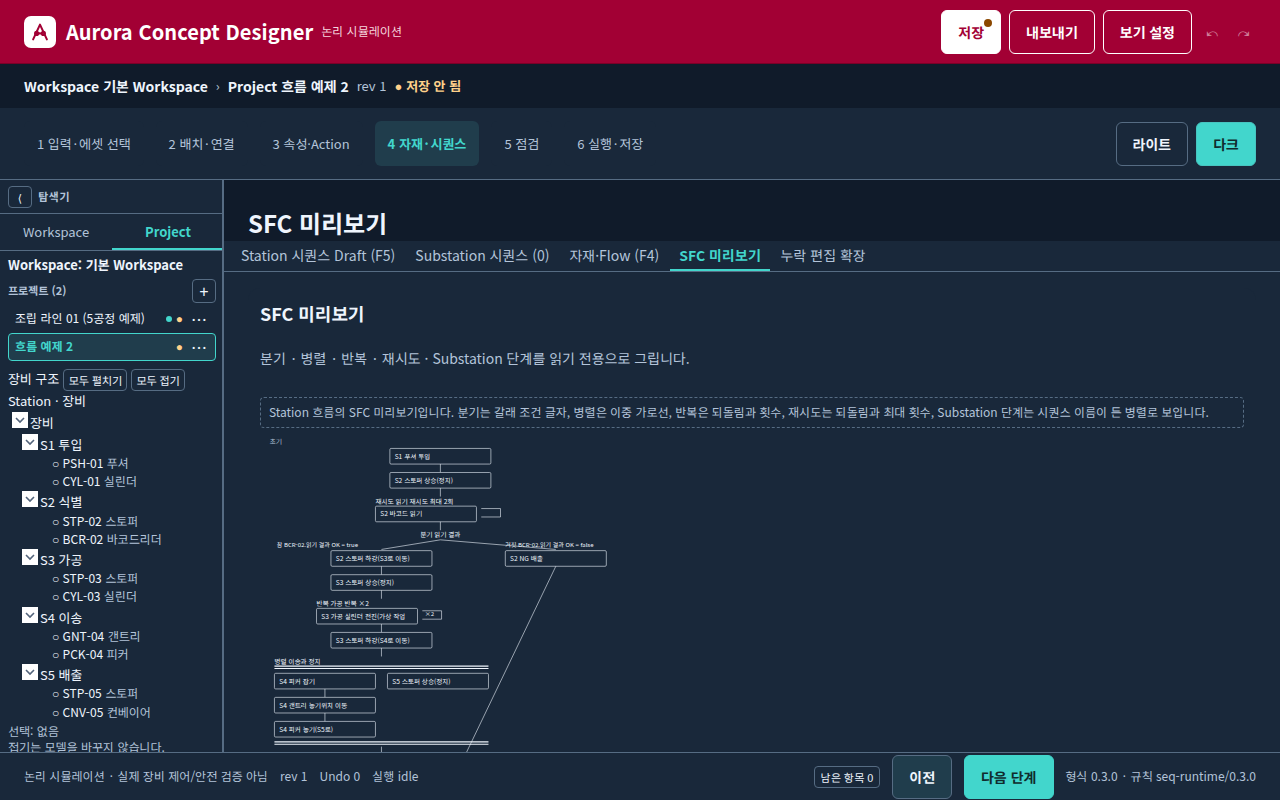
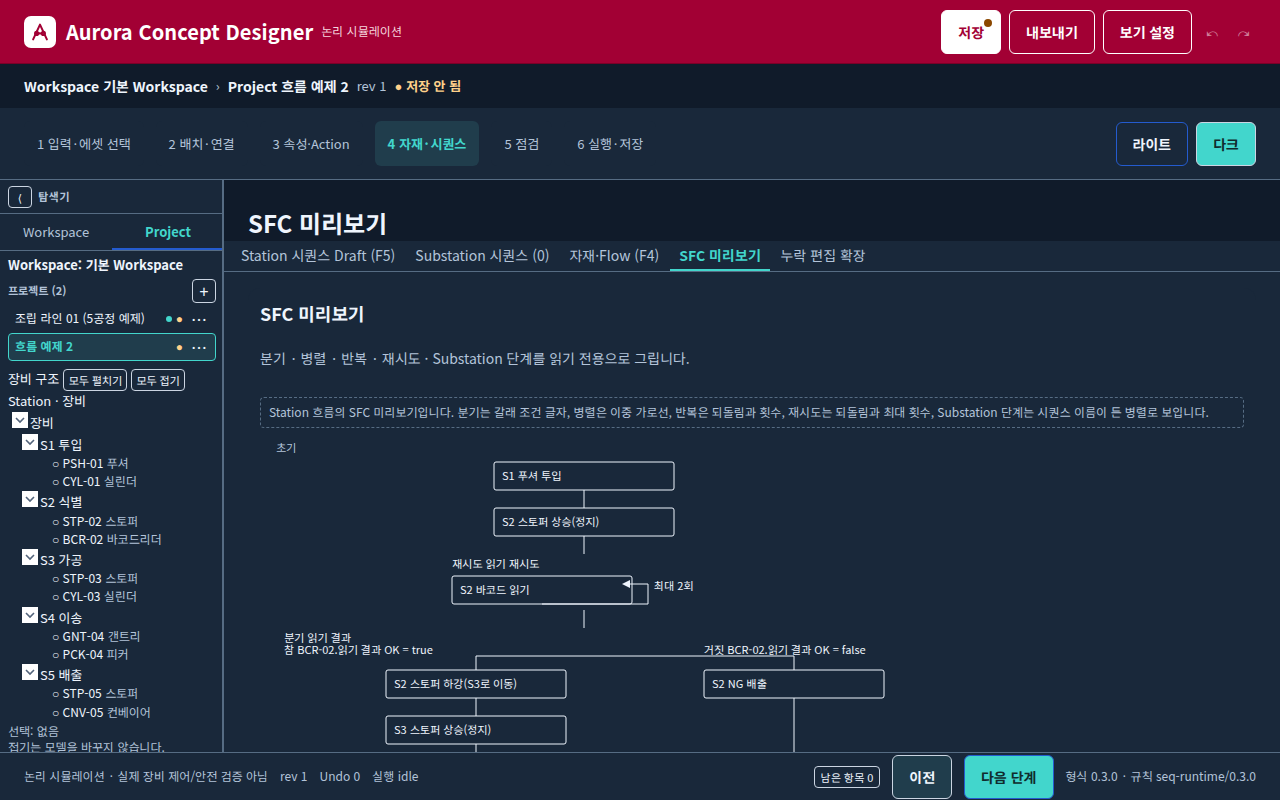
TURN-022: SFC를 1:1로 그리고 검토에서 나온 화면 네 가지를 고친다
SFC는 축소하지 않고 스크롤한다. 병렬 갈래 충돌은 Station 시퀀스로
안내하고, 실행 줄은 시작 시각 순으로 두며, 조건 목록에 Device 이름을 붙인다.

Changed region(s): [[0.2188, 0.5625, 0.4688, 0.9375], [0.5312, 0.7812, 0.6875, 0.875], [0.4688, 0.7188, 0.5312, 0.75]]

diff --git a/src/ui/SfcView.tsx b/src/ui/SfcView.tsx
@@ -1,12 +1,13 @@
-// Read-only SFC for a Station flow: branch labels, parallel double bars, loop and retry return arrows.
+// Read-only SFC. Drawn 1:1 (11px text). The page scrolls when the chart is taller than the screen.
 import type { ReactNode } from 'react';
 import type { FlowNode, Project } from '../model/types';
 import type { RuntimeState } from '../runtime/engine';
 import { condLabel } from './labels';
 
-const BOX_W = 168;
-const BOX_H = 26;
-const GAP = 14;
+const BOX_W = 180;
+const BOX_H = 28;
+const GAP = 18;
+const FONT = 11;
 
 interface Block { w: number; h: number; body: (x: number, y: number) => ReactNode }
 
@@ -18,9 +19,14 @@ function stepName(p: Project, id: string): string {
 
 function box(key: string, label: string, x: number, y: number, hot: boolean, done: boolean): ReactNode {
   return <g key={key}>
-    <rect x={x} y={y} width={BOX_W} height={BOX_H} rx={2} fill={hot ? 'var(--selected)' : done ? 'var(--grid)' : 'var(--panel)'} stroke={hot ? 'var(--accent, var(--text))' : 'var(--text)'} />
-    <text x={x + 8} y={y + 17} fontSize={11} fill="var(--text)">{label.slice(0, 18)}</text>
+    <rect x={x} y={y} width={BOX_W} height={BOX_H} rx={2} fill={hot ? 'var(--selected)' : done ? 'var(--grid)' : 'var(--panel)'} stroke="var(--text)" />
+    <text x={x + 8} y={y + 18} fontSize={FONT} fill="var(--text)">{label.slice(0, 20)}</text>
   </g>;
+}
+
+function arrowHead(x: number, y: number, dir: 'left' | 'up'): ReactNode {
+  if (dir === 'left') return <polygon points={`${x},${y} ${x + 8},${y - 4} ${x + 8},${y + 4}`} fill="var(--text)" />;
+  return <polygon points={`${x},${y} ${x - 4},${y + 8} ${x + 4},${y + 8}`} fill="var(--text)" />;
 }
 
 function layoutSeq(p: Project, nodes: FlowNode[], active: Set<string>, done: Set<string>): Block {
@@ -49,25 +55,30 @@ function layoutNode(p: Project, n: FlowNode, active: Set<string>, done: Set<stri
   if (n.kind === 'branch') {
     const thenB = layoutSeq(p, n.then, active, done);
     const elseB = layoutSeq(p, n.else, active, done);
-    const gap = 28;
+    const gap = 36;
     const w = Math.max(BOX_W, thenB.w + elseB.w + gap);
-    const h = 36 + Math.max(thenB.h, elseB.h) + 18;
+    const h = 40 + Math.max(thenB.h, elseB.h) + 20;
     const thenLabel = `참 ${condLabel(p, n.cond)}`;
-    const elseLabel = `거짓 ${condLabel(p, { ...n.cond, ...(n.cond.kind === 'signal' ? { equals: !n.cond.equals } : {}) })}`;
+    const elseLabel = `거짓 ${condLabel(p, n.cond.kind === 'signal' ? { ...n.cond, equals: !n.cond.equals } : n.cond)}`;
     return {
       w, h, body: (x, y) => {
-        const mid = x + w / 2;
-        const top = y + 16;
+        const thenCx = x + thenB.w / 2;
+        const elseCx = x + thenB.w + gap + elseB.w / 2;
+        const splitY = y + 28;
+        const bodyY = splitY + 14;
+        const joinY = y + h - 2;
         return <g>
-          <text x={mid} y={y + 12} fontSize={11} textAnchor="middle" fill="var(--text)">분기 {n.name}</text>
-          <line x1={mid} y1={top} x2={x + thenB.w / 2} y2={top + 16} stroke="var(--text)" />
-          <line x1={mid} y1={top} x2={x + thenB.w + gap + elseB.w / 2} y2={top + 16} stroke="var(--text)" />
-          <text x={x + 4} y={top + 12} fontSize={10} fill="var(--text)">{thenLabel.slice(0, 28)}</text>
-          <text x={x + thenB.w + gap} y={top + 12} fontSize={10} fill="var(--text)">{elseLabel.slice(0, 28)}</text>
-          {thenB.body(x, top + 18)}
-          {elseB.body(x + thenB.w + gap, top + 18)}
-          <line x1={x + thenB.w / 2} y1={top + 18 + thenB.h} x2={mid} y2={y + h} stroke="var(--text)" />
-          <line x1={x + thenB.w + gap + elseB.w / 2} y1={top + 18 + elseB.h} x2={mid} y2={y + h} stroke="var(--text)" />
+          <text x={x} y={y + 14} fontSize={FONT} fill="var(--text)">분기 {n.name}</text>
+          <text x={x} y={splitY - 2} fontSize={FONT} fill="var(--text)">{thenLabel}</text>
+          <text x={x + thenB.w + gap} y={splitY - 2} fontSize={FONT} fill="var(--text)">{elseLabel}</text>
+          <line x1={thenCx} y1={splitY} x2={elseCx} y2={splitY} stroke="var(--text)" />
+          <line x1={thenCx} y1={splitY} x2={thenCx} y2={bodyY} stroke="var(--text)" />
+          <line x1={elseCx} y1={splitY} x2={elseCx} y2={bodyY} stroke="var(--text)" />
+          {thenB.body(x, bodyY)}
+          {elseB.body(x + thenB.w + gap, bodyY)}
+          <line x1={thenCx} y1={bodyY + thenB.h} x2={thenCx} y2={joinY} stroke="var(--text)" />
+          <line x1={elseCx} y1={bodyY + elseB.h} x2={elseCx} y2={joinY} stroke="var(--text)" />
+          <line x1={thenCx} y1={joinY} x2={elseCx} y2={joinY} stroke="var(--text)" />
         </g>;
       },
     };
@@ -79,40 +90,57 @@ function layoutNode(p: Project, n: FlowNode, active: Set<string>, done: Set<stri
     const names = n.kind === 'substation'
       ? (p.substationSequences ?? []).filter((q) => q.unitId === n.unitId).map((q) => q.name)
       : n.lanes.map((_, idx) => `갈래 ${idx + 1}`);
-    const laid = lanes.map((lane) => lane.length ? layoutSeq(p, lane, active, done) : { w: BOX_W, h: BOX_H, body: (x: number, y: number) => box('empty', '(빈 갈래)', x, y, false, false) });
+    const laid = lanes.map((lane) => lane.length
+      ? layoutSeq(p, lane, active, done)
+      : { w: BOX_W, h: BOX_H, body: (x: number, y: number) => box(`empty-${n.id}`, '(빈 갈래)', x, y, false, false) });
     if (n.kind === 'substation') {
-      laid.forEach((b, idx) => { b.body = (x, y) => box(names[idx] ?? String(idx), names[idx] ?? '시퀀스', x, y, false, false); b.w = BOX_W; b.h = BOX_H; });
+      laid.forEach((b, idx) => {
+        b.body = (x, y) => box(names[idx] ?? String(idx), names[idx] ?? '시퀀스', x, y, false, false);
+        b.w = BOX_W;
+        b.h = BOX_H;
+      });
     }
-    const gap = 20;
+    const gap = 24;
     const w = Math.max(BOX_W, laid.reduce((s, b) => s + b.w, 0) + gap * Math.max(0, laid.length - 1));
-    const h = 28 + Math.max(...laid.map((b) => b.h), BOX_H) + 16;
-    const title = n.kind === 'parallel' ? `병렬 ${n.name}` : `Substation ${(p.units.find((u) => u.id === n.unitId)?.name) ?? ''}`;
+    const h = 36 + Math.max(...laid.map((b) => b.h), BOX_H) + 20;
+    const title = n.kind === 'parallel' ? `병렬 ${n.name}` : `Substation ${p.units.find((u) => u.id === n.unitId)?.name ?? ''}`;
     return {
       w, h, body: (x, y) => {
         let xx = x;
+        const bars = (yy: number) => <>
+          <line x1={x} y1={yy} x2={x + w} y2={yy} stroke="var(--text)" strokeWidth={2} />
+          <line x1={x} y1={yy + 4} x2={x + w} y2={yy + 4} stroke="var(--text)" strokeWidth={2} />
+        </>;
         return <g>
-          <text x={x} y={y + 12} fontSize={11} fill="var(--text)">{title}</text>
-          <line x1={x} y1={y + 16} x2={x + w} y2={y + 16} stroke="var(--text)" strokeWidth={2} />
-          <line x1={x} y1={y + 20} x2={x + w} y2={y + 20} stroke="var(--text)" strokeWidth={2} />
-          {laid.map((b, idx) => { const el = <g key={idx}>{b.body(xx, y + 28)}</g>; xx += b.w + gap; return el; })}
-          <line x1={x} y1={y + h - 8} x2={x + w} y2={y + h - 8} stroke="var(--text)" strokeWidth={2} />
-          <line x1={x} y1={y + h - 4} x2={x + w} y2={y + h - 4} stroke="var(--text)" strokeWidth={2} />
+          <text x={x} y={y + 14} fontSize={FONT} fill="var(--text)">{title}</text>
+          {bars(y + 20)}
+          {laid.map((b, idx) => { const el = <g key={idx}>{b.body(xx, y + 32)}</g>; xx += b.w + gap; return el; })}
+          {bars(y + h - 10)}
         </g>;
       },
     };
   }
-  const body = n.kind === 'loop' ? n.body : n.body;
-  const inner = layoutSeq(p, body, active, done);
-  const caption = n.kind === 'loop' ? `반복 ${n.name} ×${n.count}` : `재시도 ${n.name} 최대 ${n.maxRetries}회`;
-  const w = inner.w + 48;
-  const h = 16 + inner.h;
+  const inner = layoutSeq(p, n.body, active, done);
+  const tag = n.kind === 'loop' ? `×${n.count}` : `최대 ${n.maxRetries}회`;
+  const caption = n.kind === 'loop' ? `반복 ${n.name}` : `재시도 ${n.name}`;
+  const extra = n.kind === 'loop' ? 44 : 84;
+  const w = inner.w + extra;
+  const h = 20 + inner.h + 8;
   return {
-    w, h, body: (x, y) => <g>
-      <text x={x} y={y + 12} fontSize={11} fill="var(--text)">{caption}</text>
-      {inner.body(x, y + 16)}
-      <path d={`M ${x + inner.w + 8} ${y + 16 + inner.h - 8} H ${x + w - 8} V ${y + 20} H ${x + inner.w + 8}`} fill="none" stroke="var(--text)" />
-      {n.kind === 'loop' && <text x={x + inner.w + 12} y={y + 28} fontSize={10} fill="var(--text)">×{n.count}</text>}
-    </g>,
+    w, h, body: (x, y) => {
+      const top = y + 22;
+      const bottom = top + inner.h;
+      const rail = x + inner.w + 16;
+      return <g>
+        <text x={x} y={y + 14} fontSize={FONT} fill="var(--text)">{caption}</text>
+        {inner.body(x, top)}
+        <line x1={x + inner.w / 2} y1={bottom} x2={rail} y2={bottom} stroke="var(--text)" />
+        <line x1={rail} y1={bottom} x2={rail} y2={top + 8} stroke="var(--text)" />
+        <line x1={rail} y1={top + 8} x2={x + inner.w - 2} y2={top + 8} stroke="var(--text)" />
+        {arrowHead(x + inner.w - 10, top + 8, 'left')}
+        <text x={rail + 6} y={top + (inner.h / 2)} fontSize={FONT} fill="var(--text)">{tag}</text>
+      </g>;
+    },
   };
 }
 
@@ -121,12 +149,10 @@ export function SfcView({ p, rt }: { p: Project; rt: RuntimeState | null }) {
   const active = new Set((rt?.steps ?? []).filter((s) => s.status === 'active').map((s) => s.stepId));
   const done = new Set((rt?.steps ?? []).filter((s) => s.status === 'done').map((s) => s.stepId));
   const laid = layoutSeq(p, flow, active, done);
-  const h = Math.max(80, laid.h + 36);
-  const w = Math.max(420, laid.w + 48);
-  const maxH = 380;
-  const scale = Math.min(1, maxH / h);
-  return <svg width={w * scale} height={h * scale} viewBox={`0 0 ${w} ${h}`} role="img" aria-label="SFC 미리보기">
-    <text x={16} y={16} fontSize={11} fill="var(--muted)">초기</text>
-    {laid.body(24, 24)}
+  const h = Math.max(80, laid.h + 40);
+  const w = Math.max(BOX_W + 48, laid.w + 48);
+  return <svg width={w} height={h} role="img" aria-label="SFC 미리보기">
+    <text x={16} y={18} fontSize={FONT} fill="var(--muted)">초기</text>
+    {laid.body(24, 28)}
   </svg>;
 }

diff --git a/tests/flow.test.ts b/tests/flow.test.ts
@@ -5,6 +5,9 @@ import * as C from '../src/model/commands';
 import { DEFAULT_MAX_RETRIES, FILE_FORMAT_VERSION } from '../src/model/types';
 import { checkRunReadiness, validateProject } from '../src/model/validate';
 import { advance, createRuntime, pause, resume, runToEnd, start } from '../src/runtime/engine';
+import { orderRunRecords, summarizeRun } from '../src/runtime/runSummary';
+import { destLabel, resolveBlocker } from '../src/ui/blockerTarget';
+import { signalChoiceLabel } from '../src/ui/labels';
 import { parseProjectFile, serializeProject } from '../src/storage/fileFormat';
 import type { Project } from '../src/model/types';
 
@@ -210,6 +213,48 @@ describe('examples (AC8 AC10 AC11 AC12)', () => {
     const started = start(createRuntime(p));
     expect(started.state.status).toBe('idle');
     expect(started.state.blockers.map((b) => b.code)).toContain('DEVICE_CONFLICT');
+  });
+});
+
+describe('review fixes — order, parallel guidance, condition names', () => {
+  it('puts the second loop pass before later steps and keeps the skipped step in flow order', () => {
+    const p = buildFlowSampleProject();
+    const rt = runToEnd(createRuntime(p));
+    const sum = summarizeRun(p, rt.state);
+    const at = (pred: (s: (typeof sum.steps)[number]) => boolean) => sum.steps.findIndex(pred);
+    const cyl2 = at((s) => s.name.includes('가공') && s.pass === 2);
+    const conv = at((s) => s.name.includes('컨베이어'));
+    const ng = at((s) => s.name.includes('NG'));
+    expect(cyl2).toBeGreaterThan(at((s) => s.name.includes('가공') && s.pass === 1));
+    expect(cyl2).toBeLessThan(conv);
+    expect(ng).toBeGreaterThan(conv);
+    expect(sum.steps[ng].status).toBe('skipped');
+    expect(orderRunRecords(p, rt.state.steps).map((s) => `${s.stepId}:${s.pass ?? ''}:${s.status}`)).toEqual(
+      sum.steps.map((s) => `${s.stepId}:${s.pass ?? ''}:${s.status}`),
+    );
+  });
+
+  it('sends a Station parallel material conflict to the Station sequence and says 갈래', () => {
+    const base = buildSampleProject();
+    const ids = base.sequence.steps.slice(1, 3).map((s) => s.id);
+    const wrapped = C.wrapFlow(base, ids, 'parallel');
+    expect(wrapped.ok).toBe(true);
+    if (!wrapped.ok) return;
+    const moved = C.moveFlowInto(wrapped.project, ids[1], wrapped.note!, 1);
+    expect(moved.ok).toBe(true);
+    if (!moved.ok) return;
+    const ready = checkRunReadiness(moved.project);
+    const hit = ready.blockers.find((b) => b.code === 'SHARED_MATERIAL_CONFLICT');
+    expect(hit?.message).toContain('갈래가');
+    expect(hit?.message).not.toContain('시퀀스');
+    const guide = resolveBlocker(moved.project, hit!, ready.blockers);
+    expect(destLabel(guide.dest!)).toBe('4 자재·시퀀스 › Station 시퀀스');
+  });
+
+  it('prefixes a signal choice with the Device name', () => {
+    const p = buildSampleProject();
+    const sig = p.signals.find((s) => s.deviceId === 'STP-02' && s.portKey === 'upDone')!;
+    expect(signalChoiceLabel(p, sig.id, true)).toBe('STP-02 · 상승 완료 = 참');
   });
 });
 

diff --git a/src/runtime/runSummary.ts b/src/runtime/runSummary.ts
@@ -1,5 +1,6 @@
 // Station run summary (TURN-018). Reads a finished or in-progress RuntimeState.
 // Does not advance time and does not write the engine.
+import { collectStepIds } from '../model/flow';
 import type { Project } from '../model/types';
 import type { RuntimeState, StepRecord } from './engine';
 
@@ -69,6 +70,45 @@ function rowOf(rec: StepRecord | undefined, stepId: string, name: string): RunSt
   return { stepId, name, status, startMs, endMs, elapsedMs, ...(rec?.pass != null ? { pass: rec.pass } : {}), ...(rec?.lane ? { lane: rec.lane } : {}) };
 }
 
+function laneRank(lane?: string): number {
+  const m = /갈래\s*(\d+)/.exec(lane ?? '');
+  return m ? Number(m[1]) : 0;
+}
+
+export interface OrderableStep {
+  stepId: string;
+  status: string;
+  startMs?: number | null;
+  pass?: number;
+  lane?: string;
+}
+
+/**
+ * Executed rows follow start time (then lane number, then the original order).
+ * Skipped and not-yet-started rows stay at their place in `flow`.
+ * A flat sequence (no flow) keeps its existing order.
+ */
+export function orderRunRecords<T extends OrderableStep>(p: Project, rows: readonly T[]): T[] {
+  if (!p.sequence.flow) return [...rows];
+  const at = new Map<string, number>();
+  collectStepIds(p.sequence.flow).forEach((id, i) => { if (!at.has(id)) at.set(id, i); });
+  const indexOf = (r: T) => at.get(r.stepId) ?? 1_000_000;
+  const placed = rows.filter((r) => r.status === 'skipped' || r.status === 'pending' || r.startMs == null);
+  const executed = rows.filter((r) => r.status !== 'skipped' && r.status !== 'pending' && r.startMs != null);
+  const byPlace = [...placed].sort((a, b) => indexOf(a) - indexOf(b));
+  const byTime = executed.map((r, i) => ({ r, i })).sort((a, b) =>
+    (a.r.startMs ?? 0) - (b.r.startMs ?? 0) || laneRank(a.r.lane) - laneRank(b.r.lane) || a.i - b.i);
+  const out: T[] = [];
+  let pi = 0;
+  for (const { r } of byTime) {
+    const ix = indexOf(r);
+    while (pi < byPlace.length && indexOf(byPlace[pi]) < ix) out.push(byPlace[pi++]);
+    out.push(r);
+  }
+  while (pi < byPlace.length) out.push(byPlace[pi++]);
+  return out;
+}
+
 /** One row per step id, in sequence order. Used when the run is a flat list. */
 function linearRows(p: Project, state: RuntimeState | null): RunStepSummary[] {
   const records = new Map<string, StepRecord>();
@@ -84,9 +124,10 @@ function occurrenceMode(p: Project, state: RuntimeState | null): boolean {
 
 /** Summarize one Station sequence run. `state` null means the run has not started. */
 export function summarizeRun(p: Project, state: RuntimeState | null): RunSummary {
-  const steps: RunStepSummary[] = occurrenceMode(p, state) && state
+  const raw: RunStepSummary[] = occurrenceMode(p, state) && state
     ? state.steps.map((rec) => rowOf(rec, rec.stepId, stepName(p, rec.stepId)))
     : linearRows(p, state);
+  const steps = occurrenceMode(p, state) ? orderRunRecords(p, raw) : raw;
 
   const started = steps.filter((s) => s.startMs !== null);
   const finished = steps.filter((s) => s.endMs !== null);

diff --git a/src/model/laneCheck.ts b/src/model/laneCheck.ts
@@ -21,6 +21,7 @@ export function checkLanes(p: Project, lanes: LaneRef[], unitId?: string): LaneC
   const devOwner = new Map<string, string>();
   const matOwners = new Set<string>();
   const unit = unitId ? p.units.find((u) => u.id === unitId) : undefined;
+  const word = unitId ? '시퀀스' : '갈래';
   for (const q of lanes) {
     if (q.steps.length === 0) b('NO_STEPS', q.id, `[${q.name}] 단계가 없음`);
     const devs = new Set<string>();
@@ -40,10 +41,10 @@ export function checkLanes(p: Project, lanes: LaneRef[], unitId?: string): LaneC
     }
     for (const d of devs) {
       const prev = devOwner.get(d);
-      if (prev) b('DEVICE_CONFLICT', d, `Device ${p.devices.find((x) => x.id === d)?.name ?? d}를 시퀀스 "${prev}"와 "${q.name}"가 함께 사용 — 동시 쓰기(명령/완료 Signal 충돌)를 이 시제품은 해석하지 않으므로 실행 전 차단`);
+      if (prev) b('DEVICE_CONFLICT', d, `Device ${p.devices.find((x) => x.id === d)?.name ?? d}를 ${word} "${prev}"와 "${q.name}"가 함께 사용 — 동시 쓰기(명령/완료 Signal 충돌)를 이 시제품은 해석하지 않으므로 실행 전 차단`);
       else devOwner.set(d, q.name);
     }
   }
-  if (matOwners.size > 1) b('SHARED_MATERIAL_CONFLICT', unitId ?? 'parallel', `자재를 다루는 시퀀스가 ${matOwners.size}개 (${lanes.filter((q) => matOwners.has(q.id)).map((q) => q.name).join(', ')}) — 자재 중복 소유/동시 이동은 지원하지 않아 실행 전 차단 (자재를 다루는 시퀀스는 1개만 허용)`);
+  if (matOwners.size > 1) b('SHARED_MATERIAL_CONFLICT', unitId ?? 'parallel', `자재를 다루는 ${word}가 ${matOwners.size}개 (${lanes.filter((q) => matOwners.has(q.id)).map((q) => q.name).join(', ')}) — 자재 중복 소유/동시 이동은 지원하지 않아 실행 전 차단 (자재를 다루는 ${word}는 1개만 허용)`);
   return { blockers, usesMaterial: matOwners.size > 0 };
 }

diff --git a/src/ui/App.tsx b/src/ui/App.tsx
@@ -9,6 +9,7 @@ import { buildFlowSampleProject, buildParallelSampleProject, buildSampleProject 
 import type { AssetDefinition, AssetKind, Project } from '../model/types';
 import { APP_VERSION, FILE_FORMAT_VERSION, PRODUCT_NAME, RUNTIME_RULES_VERSION } from '../model/types';
 import { advance, createRuntime, pause, reset, resume, runToEnd, start, type Runtime } from '../runtime/engine';
+import { orderRunRecords } from '../runtime/runSummary';
 import { parseProjectFile, serializeProject } from '../storage/fileFormat';
 import { detectStorage, loadProject, quarantine, readIndex, readQuarantine, type KV, type QuarantineEntry } from '../storage/localStore';
 import { Canvas, type Mode } from './Canvas';
@@ -1039,7 +1040,7 @@ export function App({ onHistory }: { onHistory?: (h: History) => void } = {}) {
               <label>가상 시간<span className="field-ro">{fmtTime(rt?.timeMs ?? 0)}</span></label>
             </div>
             <table className="grid plain"><thead><tr><th>단계</th><th>갈래 · 회차</th><th>상태</th><th>자재</th></tr></thead>
-              <tbody>{(rt?.steps ?? p.sequence.steps.map((s) => ({ stepId: s.id, status: 'pending' as const }))).map((row, i) => {
+              <tbody>{orderRunRecords(p, rt?.steps ?? p.sequence.steps.map((s) => ({ stepId: s.id, status: 'pending' as const }))).map((row, i) => {
                 const step = p.sequence.steps.find((s) => s.id === row.stepId) ?? (p.substationSequences ?? []).flatMap((q) => q.steps).find((s) => s.id === row.stepId);
                 const where = [('lane' in row ? row.lane : undefined), ('pass' in row && row.pass ? `${row.pass}회` : '')].filter(Boolean).join(' ');
                 const label = row.status === 'skipped' ? '건너뜀' : row.status;

diff --git a/src/ui/FlowEditor.tsx b/src/ui/FlowEditor.tsx
@@ -5,7 +5,7 @@ import type { Condition, FlowNode, Project } from '../model/types';
 import { DEFAULT_MAX_RETRIES } from '../model/types';
 import type { RuntimeState } from '../runtime/engine';
 import type { EditFn } from './Inspector';
-import { condLabel, devName, unitName } from './labels';
+import { condLabel, devName, signalChoiceLabel, unitName } from './labels';
 
 type Arm = 'then' | 'else' | 'body' | number;
 
@@ -73,10 +73,10 @@ function condFrom(value: string): Condition {
 
 function CondSelect({ p, cond, disabled, onChange }: { p: Project; cond: Condition; disabled: boolean; onChange: (c: Condition) => void }) {
   const states = p.materials[0]?.states ?? [];
-  return <select aria-label="조건" disabled={disabled} value={condValue(cond)} onChange={(e) => onChange(condFrom(e.target.value))} style={{ maxWidth: 220 }}>
+  return <select aria-label="조건" disabled={disabled} value={condValue(cond)} onChange={(e) => onChange(condFrom(e.target.value))} style={{ maxWidth: 280 }}>
     <option value="undef">조건 없음</option>
-    {p.signals.map((s) => <option key={`${s.id}:1`} value={`sig:${s.id}:1`}>{s.name} = 참</option>)}
-    {p.signals.map((s) => <option key={`${s.id}:0`} value={`sig:${s.id}:0`}>{s.name} = 거짓</option>)}
+    {p.signals.map((s) => <option key={`${s.id}:1`} value={`sig:${s.id}:1`}>{signalChoiceLabel(p, s.id, true)}</option>)}
+    {p.signals.map((s) => <option key={`${s.id}:0`} value={`sig:${s.id}:0`}>{signalChoiceLabel(p, s.id, false)}</option>)}
     {states.map((st) => <option key={st} value={`st:${st}`}>자재 상태 = {st}</option>)}
     {p.units.map((u) => <option key={u.id} value={`at:${u.id}`}>자재 위치 = {u.name}</option>)}
   </select>;

diff --git a/src/ui/labels.ts b/src/ui/labels.ts
@@ -17,6 +17,15 @@ export function connectStartLabel(p: Project, id: string): string {
   }
   return p.units.find((u) => u.id === id)?.name ?? id;
 }
+/** Condition picker text. Signal rows lead with the Device name so identical port names stay distinct. */
+export function signalChoiceLabel(p: Project, signalId: string, equals: boolean): string {
+  const s = p.signals.find((x) => x.id === signalId);
+  if (!s) return '(없음)';
+  const dev = devName(p, s.deviceId);
+  const bare = s.name.startsWith(`${dev}.`) ? s.name.slice(dev.length + 1) : s.name;
+  return `${dev} · ${bare} = ${equals ? '참' : '거짓'}`;
+}
+
 export function condLabel(p: Project, c: Condition): string {
   switch (c.kind) {
     case 'signal': return `${sigName(p, c.signalId)} = ${c.equals}`;

diff --git a/docs/turns/TURN-022.md b/docs/turns/TURN-022.md
@@ -19,7 +19,7 @@
 
 ## 화면 (1280×800, 흐름 예제)
 
-Chrome으로 개발 서버를 열어 찍었다.
+Chrome으로 개발 서버를 열어 찍었다. SFC는 축소하지 않은 전체 그림이다(1280 너비, 높이는 차트만큼).
 
 - 4단계 블록 편집, 라이트: `TURN-022-edit-light-1280.png`
 - 4단계 블록 편집, 다크: `TURN-022-edit-dark-1280.png`
@@ -43,4 +43,4 @@ Chrome으로 개발 서버를 열어 찍었다.
 - 병렬 안의 병렬과 Substation 단계는 막았다. 다른 중첩은 허용한다.
 - 일시정지 · 재개를 끼우면 로그에 `PAUSE` · `RESUME` 줄이 더 있다. 그 줄을 빼면 단계 로그와 최종 상태가 같다. 5공정 예제의 기존 일시정지와 같다.
 - 그룹 런타임 파일은 지우지 않았다. 화면에서는 그룹 실행을 시작하지 않는다.
-- SFC는 읽기 전용이고, 한 화면에 넣기 위해 줄어 보인다. 글자가 겹치면 사람 검수에서 봐 달라.
+- SFC는 1:1로 그린다. 글자는 11px이고, 차트보다 화면이 작으면 스크롤한다. 반복·재시도는 되돌림 화살표, 분기 합류는 직각 선이다.
